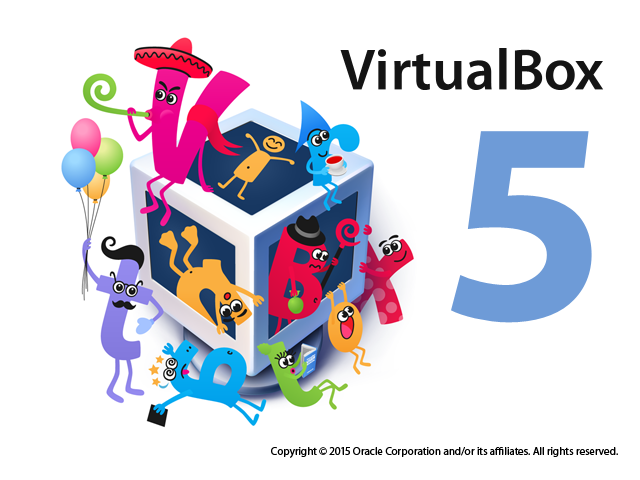
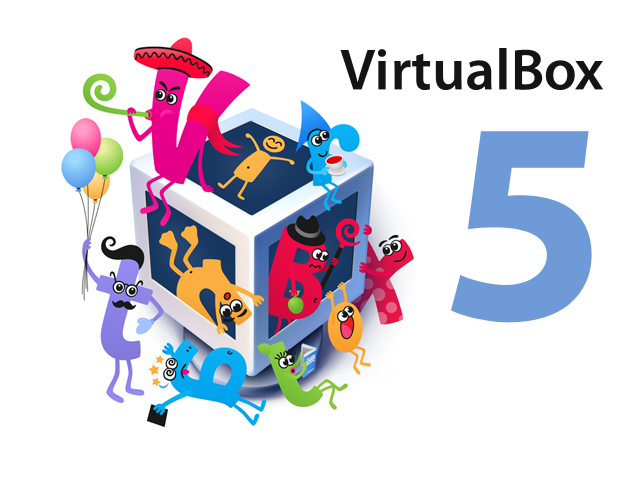
FE/Qt: 7918: About VirtualBox Dialog Improvements: 1. Version text copyable and Uniform. 2. Dialog not closed on focus/mouse event.
git-svn-id: https://www.virtualbox.org/svn/vbox@57511 cfe28804-0f27-0410-a406-dd0f0b0b656f

Changed region(s): [[0.4375, 0.9062, 0.9688, 0.9688]]

diff --git a/trunk/src/VBox/Frontends/VirtualBox/src/VBoxAboutDlg.cpp b/trunk/src/VBox/Frontends/VirtualBox/src/VBoxAboutDlg.cpp
@@ -23,6 +23,7 @@
 # include <QDir>
 # include <QEvent>
 # include <QPainter>
+# include <QLabel>
 # include <iprt/path.h>
 # include <VBox/version.h> /* VBOX_VENDOR */
 
@@ -37,7 +38,7 @@
 
 
 VBoxAboutDlg::VBoxAboutDlg(QWidget *pParent, const QString &strVersion)
-    : QIWithRetranslateUI2<QIDialog>(pParent, Qt::CustomizeWindowHint | Qt::WindowTitleHint)
+    : QIWithRetranslateUI2<QIDialog>(pParent)
     , m_strVersion(strVersion)
 {
     /* Delete dialog on close: */
@@ -62,6 +63,27 @@ VBoxAboutDlg::VBoxAboutDlg(QWidget *pParent, const QString &strVersion)
     m_size = icon.availableSizes().first();
     m_pixmap = icon.pixmap(m_size);
 
+    /* Create main layout: */
+    QVBoxLayout *pMainLayout = new QVBoxLayout(this);
+
+    /* Create label for version text: */
+    m_pLabel = new QLabel();
+    pMainLayout->addWidget(m_pLabel);
+
+    QPalette palette;
+    /* Branding: Set a different text color (because splash also could be white),
+     * otherwise use white as default color: */
+    QString strColor = vboxGlobal().brandingGetKey("UI/AboutTextColor");
+    if (!strColor.isEmpty())
+        palette.setColor(QPalette::WindowText, QColor(strColor).name());
+    else
+        palette.setColor(QPalette::WindowText, Qt::black);
+    m_pLabel->setPalette(palette);
+    m_pLabel->setTextInteractionFlags(Qt::TextSelectableByMouse);
+    m_pLabel->setFont(font());
+
+    pMainLayout->setAlignment(m_pLabel, Qt::AlignRight | Qt::AlignBottom);
+
     /* Translate: */
     retranslateUi();
 }
@@ -70,8 +92,6 @@ bool VBoxAboutDlg::event(QEvent *pEvent)
 {
     if (pEvent->type() == QEvent::Polish)
         setFixedSize(m_size);
-    if (pEvent->type() == QEvent::WindowDeactivate)
-        close();
     return QIDialog::event(pEvent);
 }
 
@@ -79,36 +99,12 @@ void VBoxAboutDlg::paintEvent(QPaintEvent* /* pEvent */)
 {
     QPainter painter(this);
     painter.drawPixmap(0, 0, m_pixmap);
-    painter.setFont(font());
-
-    /* Branding: Set a different text color (because splash also could be white),
-                 otherwise use white as default color: */
-    QString strColor = vboxGlobal().brandingGetKey("UI/AboutTextColor");
-    if (!strColor.isEmpty())
-        painter.setPen(QColor(strColor).name());
-    else
-        painter.setPen(Qt::black);
-#if VBOX_OSE
-    painter.drawText(QRect(0, 400, 600, 32),
-                     Qt::AlignCenter | Qt::AlignVCenter | Qt::TextWordWrap,
-                     m_strAboutText);
-#else /* VBOX_OSE */
-    painter.drawText(QRect(271, 370, 360, 72),
-                     Qt::AlignLeft | Qt::AlignBottom | Qt::TextWordWrap,
-                     m_strAboutText);
-#endif /* VBOX_OSE */
-}
-
-void VBoxAboutDlg::mouseReleaseEvent(QMouseEvent* /* pEvent */)
-{
-    /* Close the dialog on mouse button release: */
-    close();
 }
 
 void VBoxAboutDlg::retranslateUi()
 {
     setWindowTitle(tr("VirtualBox - About"));
-    QString strAboutText =  tr("VirtualBox Graphical User Interface");
+    QString strAboutText = tr("VirtualBox Graphical User Interface");
 #ifdef VBOX_BLEEDING_EDGE
     QString strVersionText = "EXPERIMENTAL build %1 - " + QString(VBOX_BLEEDING_EDGE);
 #else
@@ -120,5 +116,7 @@ void VBoxAboutDlg::retranslateUi()
 #else /* VBOX_OSE */
     m_strAboutText = strAboutText + "\n" + strVersionText.arg(m_strVersion);
 #endif /* VBOX_OSE */
+    m_strAboutText = m_strAboutText + "\n" + QString("Copyright %1 2015 Oracle and/or its affiliates. All rights reserved.").arg(QChar(0xa9));
+    m_pLabel->setText(m_strAboutText);
 }
 

diff --git a/trunk/src/VBox/Frontends/VirtualBox/src/VBoxAboutDlg.h b/trunk/src/VBox/Frontends/VirtualBox/src/VBoxAboutDlg.h
@@ -27,6 +27,7 @@
 
 /* Forward declarations */
 class QEvent;
+class QLabel;
 
 /* VBox about dialog */
 class VBoxAboutDlg: public QIWithRetranslateUI2<QIDialog>
@@ -43,7 +44,6 @@ protected:
     /* Event handlers: */
     bool event(QEvent *pEvent);
     void paintEvent(QPaintEvent *pEvent);
-    void mouseReleaseEvent(QMouseEvent *pEvent);
 
     /* Language stuff: */
     void retranslateUi();
@@ -55,6 +55,7 @@ private:
     QString m_strVersion;
     QPixmap m_pixmap;
     QSize   m_size;
+    QLabel *m_pLabel;
 };
 
 #endif /* __VBoxAboutDlg_h__ */
